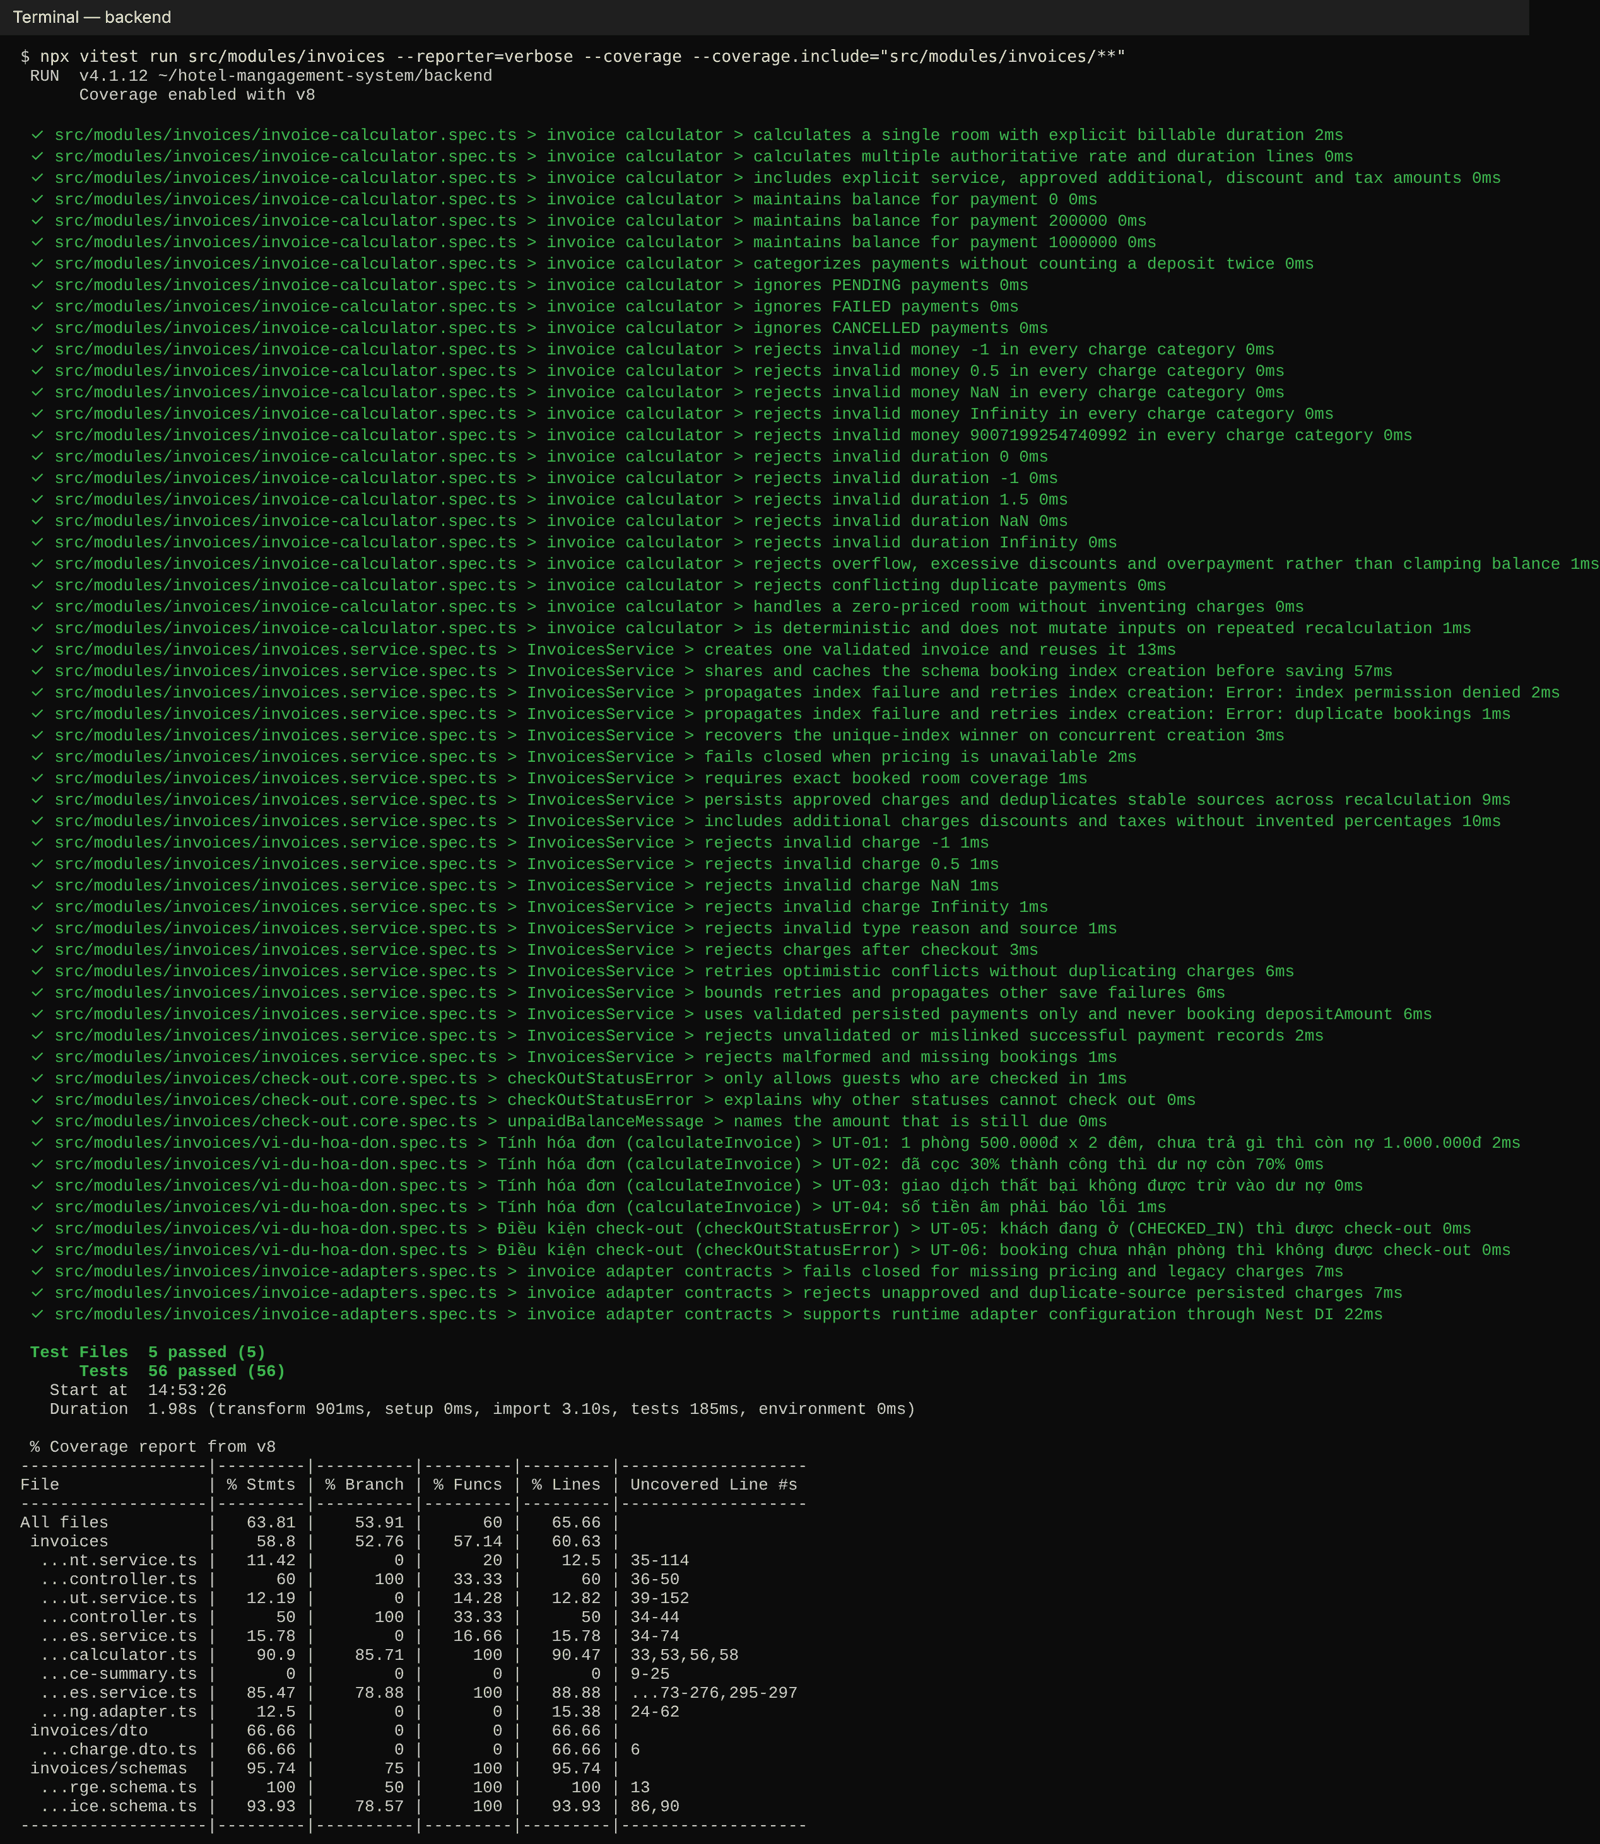
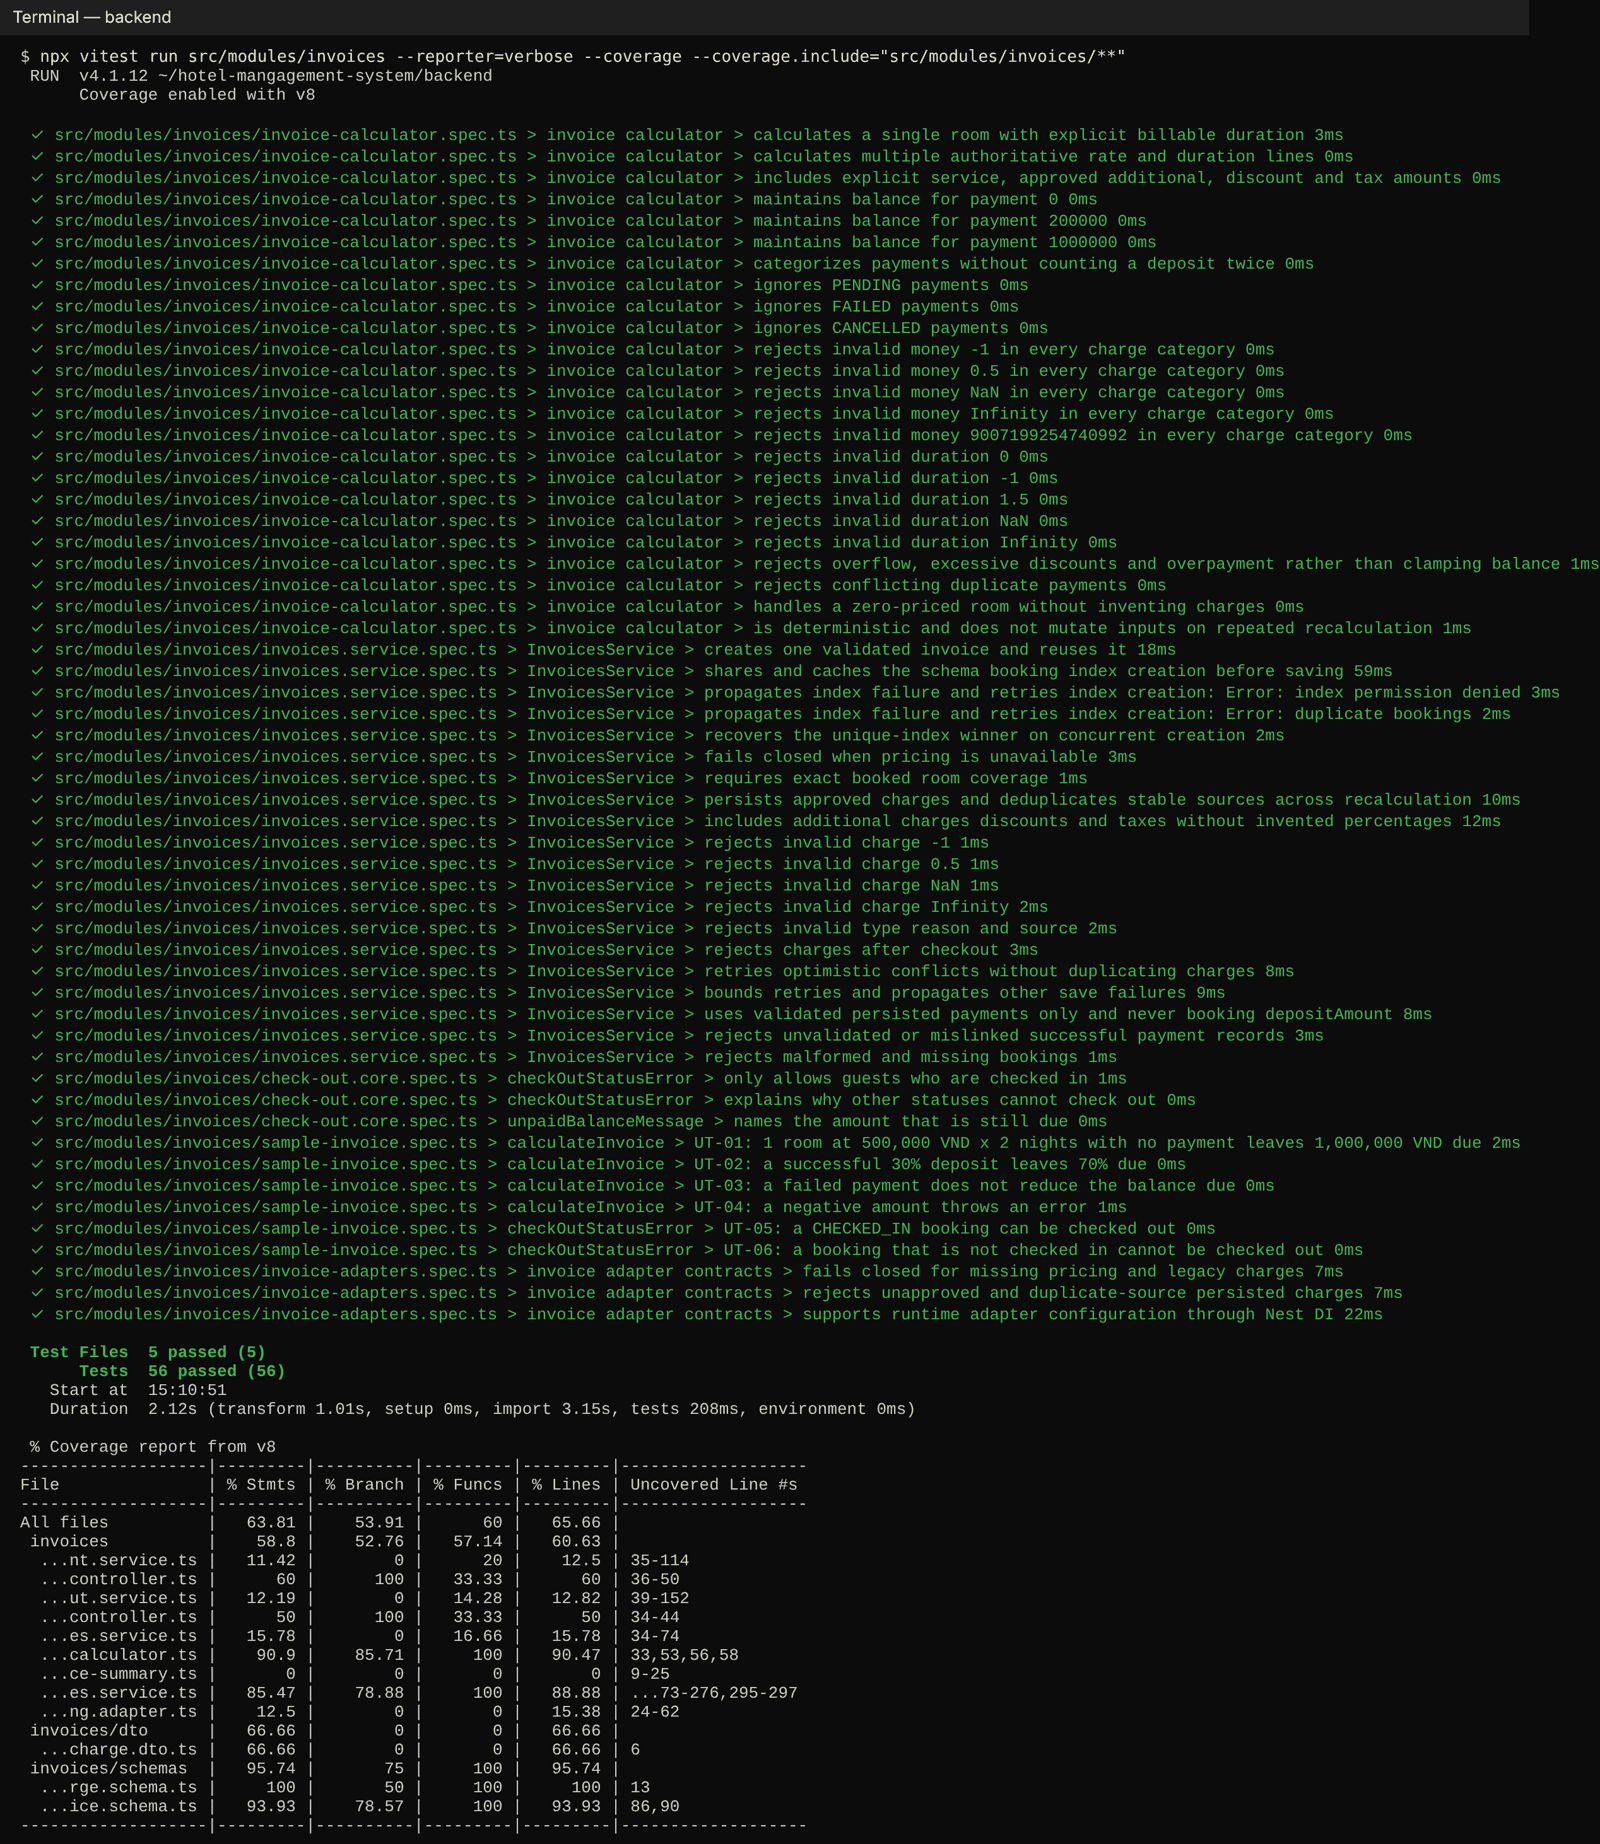
docs(test): write sample unit test in English
- rename vi-du-hoa-don.spec.ts to sample-invoice.spec.ts, English test names and comments
- guide asks for English test names; refresh sample screenshots

Claude-Session: https://claude.ai/code/session_01Dnn3nhME19xBCrah5rzRhS

Changed region(s): [[0.1562, 0.6182, 0.9375, 0.68], [0.0938, 0.7419, 0.125, 0.7728]]

diff --git a/backend/src/modules/invoices/sample-invoice.spec.ts b/backend/src/modules/invoices/sample-invoice.spec.ts
@@ -1,4 +1,4 @@
-// Test mẫu: chạy bằng `npx vitest run src/modules/invoices/vi-du-hoa-don.spec.ts`
+// Sample unit test. Run with: `npx vitest run src/modules/invoices/sample-invoice.spec.ts`
 import { describe, it, expect } from 'vitest';
 import { calculateInvoice } from './invoice-calculator.js';
 import { checkOutStatusError } from './check-out.core.js';
@@ -9,9 +9,9 @@ import {
   PaymentStatus,
 } from '../payments/schemas/payment-transaction.schema.js';
 
-describe('Tính hóa đơn (calculateInvoice)', () => {
-  it('UT-01: 1 phòng 500.000đ x 2 đêm, chưa trả gì thì còn nợ 1.000.000đ', () => {
-    // Arrange: chuẩn bị dữ liệu đầu vào
+describe('calculateInvoice', () => {
+  it('UT-01: 1 room at 500,000 VND x 2 nights with no payment leaves 1,000,000 VND due', () => {
+    // Arrange: prepare the input
     const input = {
       rooms: [{ rate: 500_000, units: 2 }],
       serviceCharges: [],
@@ -21,16 +21,16 @@ describe('Tính hóa đơn (calculateInvoice)', () => {
       payments: [],
     };
 
-    // Act: gọi hàm cần test
+    // Act: call the function under test
     const invoice = calculateInvoice(input);
 
-    // Assert: so sánh kết quả với mong đợi
+    // Assert: compare the result with the expected values
     expect(invoice.roomTotal).toBe(1_000_000);
     expect(invoice.balanceDue).toBe(1_000_000);
     expect(invoice.status).toBe(InvoiceStatus.Unpaid);
   });
 
-  it('UT-02: đã cọc 30% thành công thì dư nợ còn 70%', () => {
+  it('UT-02: a successful 30% deposit leaves 70% due', () => {
     const invoice = calculateInvoice({
       rooms: [{ rate: 500_000, units: 2 }],
       serviceCharges: [],
@@ -50,7 +50,7 @@ describe('Tính hóa đơn (calculateInvoice)', () => {
     expect(invoice.balanceDue).toBe(700_000);
   });
 
-  it('UT-03: giao dịch thất bại không được trừ vào dư nợ', () => {
+  it('UT-03: a failed payment does not reduce the balance due', () => {
     const invoice = calculateInvoice({
       rooms: [{ rate: 500_000, units: 2 }],
       serviceCharges: [],
@@ -70,7 +70,7 @@ describe('Tính hóa đơn (calculateInvoice)', () => {
     expect(invoice.balanceDue).toBe(1_000_000);
   });
 
-  it('UT-04: số tiền âm phải báo lỗi', () => {
+  it('UT-04: a negative amount throws an error', () => {
     expect(() =>
       calculateInvoice({
         rooms: [{ rate: -1, units: 1 }],
@@ -84,12 +84,12 @@ describe('Tính hóa đơn (calculateInvoice)', () => {
   });
 });
 
-describe('Điều kiện check-out (checkOutStatusError)', () => {
-  it('UT-05: khách đang ở (CHECKED_IN) thì được check-out', () => {
+describe('checkOutStatusError', () => {
+  it('UT-05: a CHECKED_IN booking can be checked out', () => {
     expect(checkOutStatusError(BookingStatus.CheckedIn)).toBeNull();
   });
 
-  it('UT-06: booking chưa nhận phòng thì không được check-out', () => {
+  it('UT-06: a booking that is not checked in cannot be checked out', () => {
     expect(checkOutStatusError(BookingStatus.Confirmed)).toBe(
       'The guest has not checked in yet',
     );

diff --git a/docs/HUONG-DAN-UNIT-TEST.md b/docs/HUONG-DAN-UNIT-TEST.md
@@ -29,7 +29,7 @@ Mở terminal (PowerShell, CMD hoặc terminal của VS Code) trong thư mục `
 | Chạy toàn bộ unit test backend | `npm test` |
 | Chạy và in tên từng test (để chụp ảnh) | `npx vitest run --reporter=verbose` |
 | Chạy kèm coverage toàn bộ | `npm run test:cov` |
-| Chạy một file | `npx vitest run src/modules/invoices/vi-du-hoa-don.spec.ts --reporter=verbose` |
+| Chạy một file | `npx vitest run src/modules/invoices/sample-invoice.spec.ts --reporter=verbose` |
 | Chạy một module kèm coverage của module đó | `npx vitest run src/modules/invoices --reporter=verbose --coverage --coverage.include="src/modules/invoices/**"` |
 
 Frontend làm tương tự trong thư mục `frontend` (`npm test`, `npm run test:cov`).
@@ -66,16 +66,16 @@ Unit test chủ yếu phủ phần logic thuần (tính tiền, kiểm tra trạ
 
 Dự án dùng **Vitest** (cú pháp giống Jest). File test đặt cạnh file code, tên kết thúc bằng `.spec.ts` (backend) hoặc `.test.tsx` (frontend). Vitest tự tìm các file này.
 
-File mẫu chạy được: [`backend/src/modules/invoices/vi-du-hoa-don.spec.ts`](../backend/src/modules/invoices/vi-du-hoa-don.spec.ts). Rút gọn:
+File mẫu chạy được: [`backend/src/modules/invoices/sample-invoice.spec.ts`](../backend/src/modules/invoices/sample-invoice.spec.ts). Rút gọn:
 
 ```ts
 import { describe, it, expect } from 'vitest';
 import { calculateInvoice } from './invoice-calculator.js';
 import { InvoiceStatus } from './schemas/invoice.schema.js';
 
-describe('Tính hóa đơn (calculateInvoice)', () => {
-  it('UT-01: 1 phòng 500.000đ x 2 đêm, chưa trả gì thì còn nợ 1.000.000đ', () => {
-    // Arrange: chuẩn bị dữ liệu đầu vào
+describe('calculateInvoice', () => {
+  it('UT-01: 1 room at 500,000 VND x 2 nights with no payment leaves 1,000,000 VND due', () => {
+    // Arrange: prepare the input
     const input = {
       rooms: [{ rate: 500_000, units: 2 }],
       serviceCharges: [],
@@ -85,16 +85,16 @@ describe('Tính hóa đơn (calculateInvoice)', () => {
       payments: [],
     };
 
-    // Act: gọi hàm cần test
+    // Act: call the function under test
     const invoice = calculateInvoice(input);
 
-    // Assert: so sánh kết quả với mong đợi
+    // Assert: compare the result with the expected values
     expect(invoice.roomTotal).toBe(1_000_000);
     expect(invoice.balanceDue).toBe(1_000_000);
     expect(invoice.status).toBe(InvoiceStatus.Unpaid);
   });
 
-  it('UT-04: số tiền âm phải báo lỗi', () => {
+  it('UT-04: a negative amount throws an error', () => {
     expect(() =>
       calculateInvoice({ rooms: [{ rate: -1, units: 1 }], serviceCharges: [], approvedAdditionalCharges: [], discounts: [], taxes: [], payments: [] }),
     ).toThrow();
@@ -104,7 +104,7 @@ describe('Tính hóa đơn (calculateInvoice)', () => {
 
 Ghi nhớ:
 
-- `describe` gom nhóm test của một hàm, `it` là một test case. Đặt tên `it` bằng tiếng Việt, có mã `UT-xx` để khớp với bảng báo cáo.
+- `describe` gom nhóm test của một hàm, `it` là một test case. **Viết test bằng tiếng Anh**: tên `describe`/`it` và comment đều tiếng Anh, tên `it` bắt đầu bằng mã `UT-xx` để khớp với bảng báo cáo, ví dụ `it('UT-07: rejects a check-in before the arrival date', ...)`.
 - Mỗi test theo 3 bước **Arrange, Act, Assert**.
 - Các hàm hay dùng: `toBe` (bằng đúng), `toEqual` / `toMatchObject` (so object), `toBeNull`, `toThrow` (phải báo lỗi), `toHaveBeenCalledWith` (mock đã được gọi với tham số).
 - Import trong backend phải có đuôi `.js` (dự án dùng ESM), dù file thật là `.ts`.
